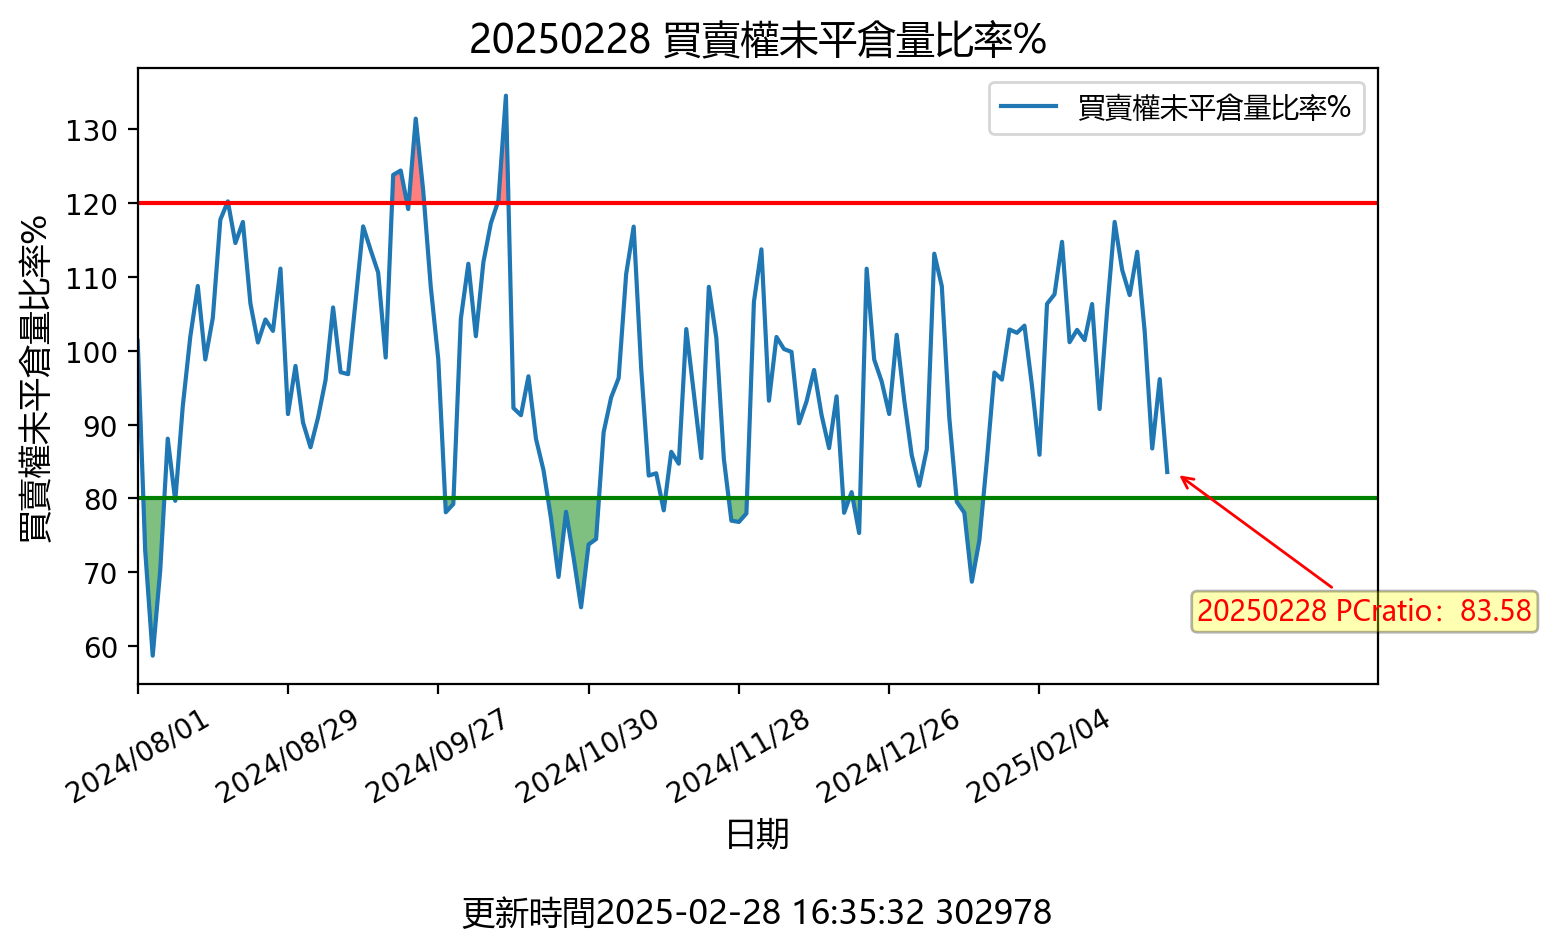
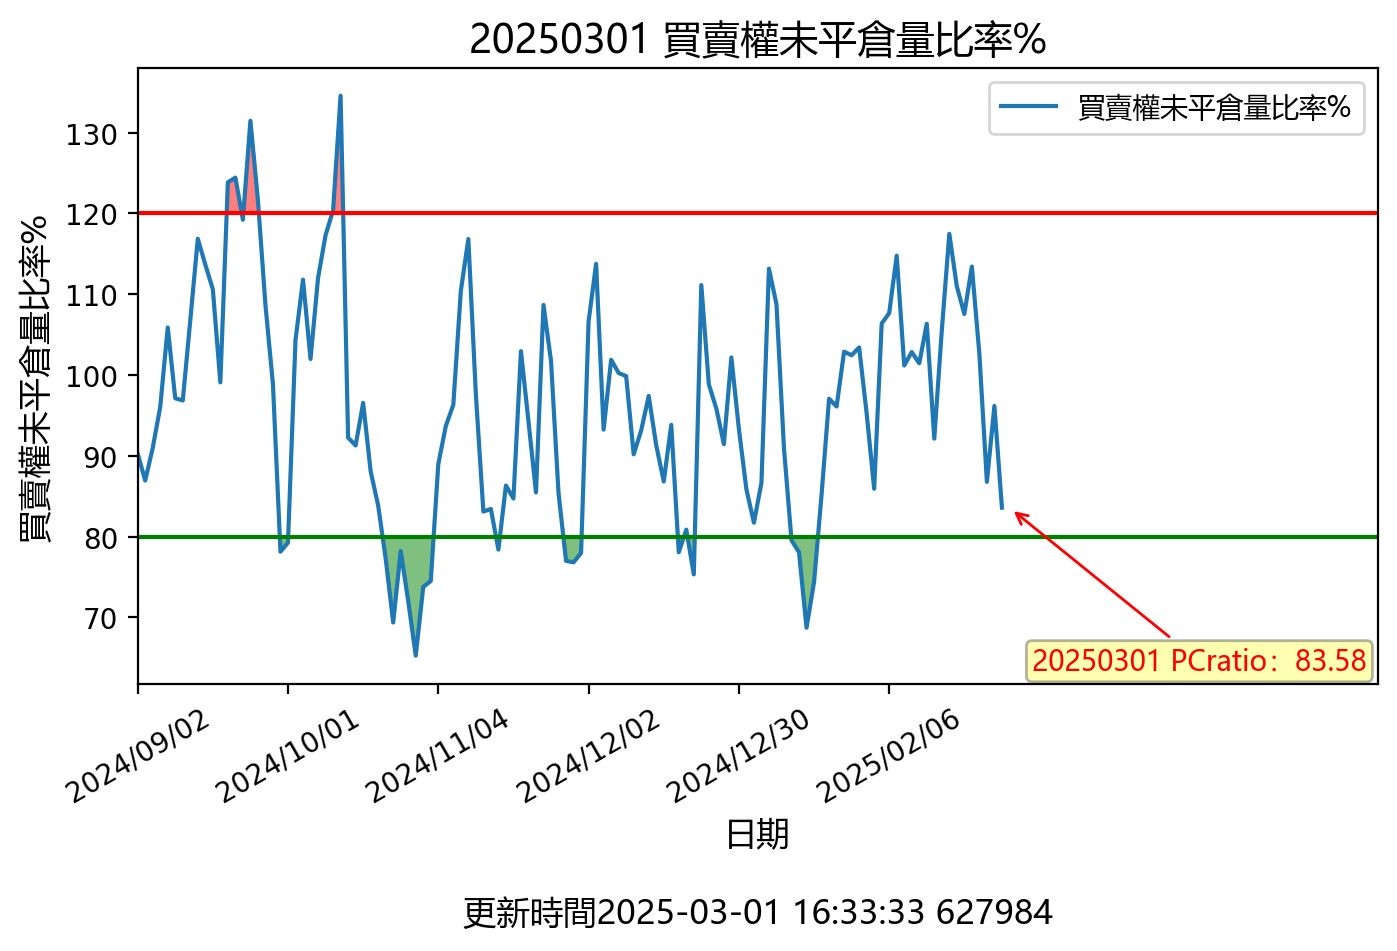
更新時間: Sat Mar  1 16:33:50 CST 2025

diff --git a/README.md b/README.md
@@ -1,12 +1,12 @@
-## 20250228 台指期「預估換倉成本」
+## 20250301 台指期「預估換倉成本」
 ![](images/txfcost.png)
 
-## 20250228 台指期「散戶小台多空比」
+## 20250301 台指期「散戶小台多空比」
 ![](images/bbiri.png)
 
-## 20250228 台指選擇權「Put/Call Ratios」
+## 20250301 台指選擇權「Put/Call Ratios」
 ![](images/pcratio.png)
 
-## 20250228 台指期「大額交易人」
+## 20250301 台指期「大額交易人」
 ![](images/blocktrade.png)
 
